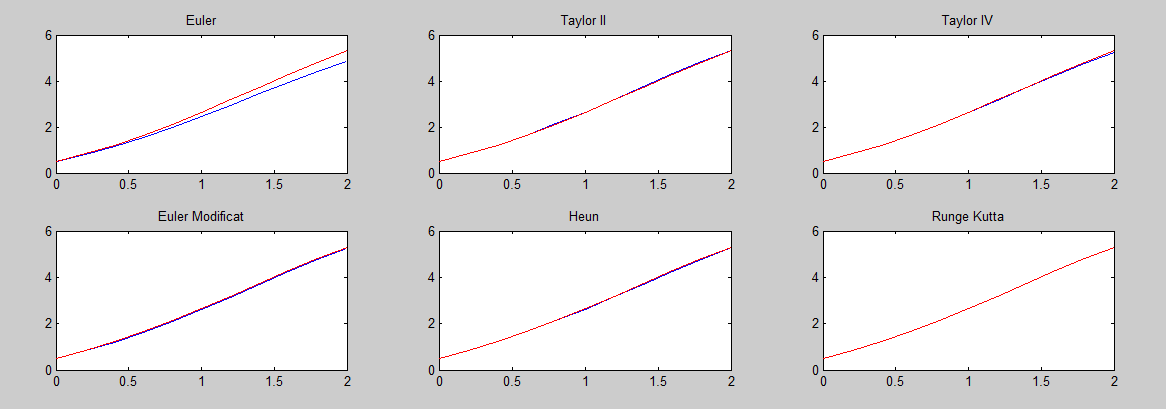
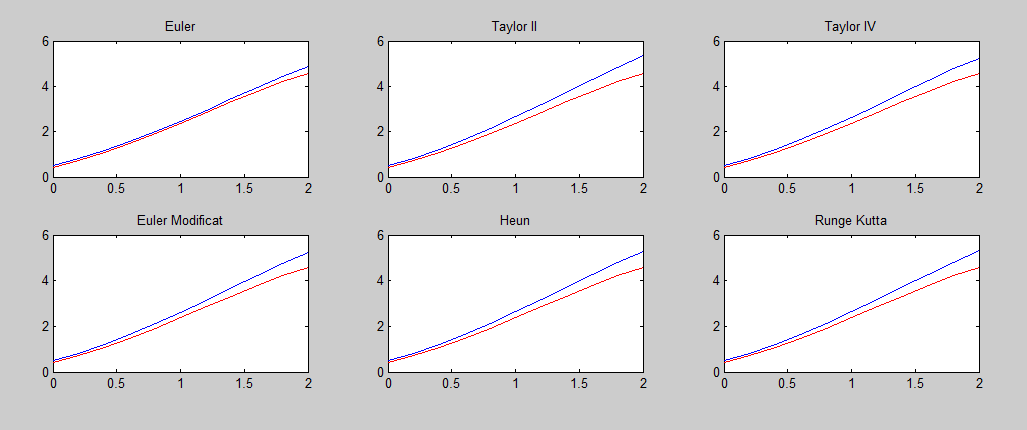
Added ex 3

diff --git a/Tema10/Versiune Gaborica/TaylorIV.m b/Tema10/Versiune Gaborica/TaylorIV.m
@@ -3,21 +3,21 @@ function [ t, x ] = TaylorIV( f, df, d2f, d3f, a, b, alfa, N )
     t = zeros(1,N+1);
     t(1) = a;
     for i = 2:N+1
-        t(i) = t(i-1) + h;
+       t(i) = t(i-1)+h; 
     end
-    x = zeros(1,N);
-    x(1) = alfa;
+    x = zeros(size(alfa,1),N);
+    x(:,1) = alfa;
     for i = 1:N
        sum = 0;
        %k = 1
-       sum = sum + f(t(i),x(i));
+       sum = sum + f(t(i),x(:,i));
        %k = 2
-       sum = sum + ((h/2) * df(t(i),x(i)));
+       sum = sum + ((h/2) * df(t(i),x(:,i)));
        %k = 3
-       sum = sum + ((h^2/6) * d2f(t(i),x(i)));
+       sum = sum + ((h^2/6) * d2f(t(i),x(:,i)));
        %k = 4
-       sum = sum + ((h^3/24) * d3f(t(i),x(i)));
-       x(i+1) = x(i) + h * sum;
+       sum = sum + ((h^3/24) * d3f(t(i),x(:,i)));
+       x(:,i+1) = x(:,i) + h * sum;
     end
 end
 

diff --git a/Tema10/Versiune Gaborica/RungeKutta.m b/Tema10/Versiune Gaborica/RungeKutta.m
@@ -5,14 +5,14 @@ function [ t, x ] = RungeKutta( f,a,b,alfa,N)
     for i = 2:N+1
         t(i) = t(i-1) + h;
     end
-    x = zeros(1,N);
-    x(1) = alfa;
+    x = zeros(size(alfa,1),N);
+    x(:,1) = alfa;
     for i = 1:N
-       K1 = h * f(t(i), x(i));
-       K2 = h * f(t(i)+(h/2), x(i) + (K1/2));
-       K3 = h * f(t(i)+(h/2), x(i) + (K2/2));
-       K4 = h * f(t(i)+h, x(i) + K3);
-       x(i+1) = x(i) + (1/6)*(K1 + 2*K2 + 2*K3 + K4);
+       K1 = h * f(t(i), x(:,i));
+       K2 = h * f(t(i)+(h/2), x(:,i) + (K1/2));
+       K3 = h * f(t(i)+(h/2), x(:,i) + (K2/2));
+       K4 = h * f(t(i)+h, x(:,i) + K3);
+       x(:,i+1) = x(:,i) + (1/6)*(K1 + 2*K2 + 2*K3 + K4);
     end
 end
 

diff --git a/Tema10/Versiune Gaborica/TaylorII.m b/Tema10/Versiune Gaborica/TaylorII.m
@@ -5,15 +5,15 @@ function [ t, x ] = TaylorII( f, df, a, b, alfa, N )
     for i = 2:N+1
         t(i) = t(i-1) + h;
     end
-    x = zeros(1,N);
-    x(1) = alfa;
+    x = zeros(size(alfa,1),N);
+    x(:,1) = alfa;
     for i = 1:N
        sum = 0;
        %k = 1
-       sum = sum + f(t(i),x(i));
+       sum = sum + f(t(i),x(:,i));
        %k = 2
-       sum = sum + ((h/2) * df(t(i),x(i)));
-       x(i+1) = x(i) + h * sum;
+       sum = sum + ((h/2) * df(t(i),x(:,i)));
+       x(:,i+1) = x(:,i) + h * sum;
     end
 end
 

diff --git a/Tema10/Versiune Gaborica/Heun.m b/Tema10/Versiune Gaborica/Heun.m
@@ -5,12 +5,12 @@ function [ t, x ] = Heun( f, a, b, alfa, N )
     for i = 2:N+1
         t(i) = t(i-1) + h;
     end
-    x = zeros(1,N);
-    x(1) = alfa;
+    x = zeros(size(alfa,1),N);
+    x(:,1) = alfa;
     for i = 1:N
-       K1 = h * f(t(i), x(i));
-       K2 = h * f(t(i) + (2/3)*h, x(i)+(2/3)*K1);
-       x(i+1) = x(i) + (1/4)*(K1 + 3*K2);
+       K1 = h * f(t(i), x(:,i));
+       K2 = h * f(t(i) + (2/3)*h, x(:,i)+(2/3)*K1);
+       x(:,i+1) = x(:,i) + (1/4)*(K1 + 3*K2);
     end
 end
 

diff --git a/Tema10/Versiune Gaborica/EulerMod.m b/Tema10/Versiune Gaborica/EulerMod.m
@@ -5,12 +5,12 @@ function [ t, x ] = EulerMod( f, a, b, alfa, N )
     for i = 2:N+1
         t(i) = t(i-1) + h;
     end
-    x = zeros(1,N);
-    x(1) = alfa;
+    x = zeros(size(alfa,1),N);
+    x(:,1) = alfa;
     for i = 1:N
-       K1 = h * f(t(i),x(i));
-       K2 = h * f(t(i)+h, x(i) + K1);
-       x(i+1) = x(i) + (1/2)*(K1 + K2);
+       K1 = h * f(t(i),x(:,i));
+       K2 = h * f(t(i)+h, x(:,i) + K1);
+       x(:,i+1) = x(:,i) + (1/2)*(K1 + K2);
     end
 end
 

diff --git a/Tema10/Versiune Gaborica/Midpoint.m b/Tema10/Versiune Gaborica/Midpoint.m
@@ -1,4 +1,4 @@
-function [ t, x ] = Euler( f, a, b, alfa, N )
+function [ t, x ] = Midpoint( f, a, b, alfa, N )
     h = (b-a)/N;
     t = zeros(1,N+1);
     t(1) = a;
@@ -8,7 +8,9 @@ function [ t, x ] = Euler( f, a, b, alfa, N )
     x = zeros(size(alfa,1),N);
     x(:,1) = alfa;
     for i = 1:N
-       x(:,i+1) = x(:,i) + h*f(t(i),x(:,i));
+       K1 = h*f(t(i), x(:,i));
+       K2 = h*f(t(i)+(h/2), x(:,i) + (K1/2));
+       x(:,i+1) = x(:,i) + K2;
     end
 end
 

diff --git a/Tema10/Versiune Gaborica/Ex3.m b/Tema10/Versiune Gaborica/Ex3.m
@@ -1,0 +1,8 @@
+
+x0 = [3; 2; 3];
+[t, x] = RungeKutta(@f3, 0, 3, x0, 200);
+pc = plot(t,abs(x(1,:)-f31(t)),'b');
+hold on;
+plot(t,abs(x(2,:)-f32(t)),'r');
+plot(t,abs(x(3,:)-f33(t)),'g');
+title('Eroare Runge Kutta - Ex 3');

diff --git a/Tema10/Versiune Gaborica/f2.m b/Tema10/Versiune Gaborica/f2.m
@@ -1,7 +1,6 @@
-function [ y ] = f2( x, t )
-    A = [1, 2; 2, 1];
+function [ Y ] = f2( t, X )
+    A = [1 2; 2 1];
     b = [1; 2];
-    A * x
-    y = A * x + b;
+    Y = A*X + b;
 end
 

diff --git a/Tema10/Versiune Gaborica/RungeKuttaIV.m b/Tema10/Versiune Gaborica/RungeKuttaIV.m
@@ -1,0 +1,7 @@
+function [ output_args ] = RungeKuttaIV( input_args )
+%RUNGEKUTTAIV Summary of this function goes here
+%   Detailed explanation goes here
+
+
+end
+

diff --git a/Tema10/Versiune Gaborica/Ex1b.m b/Tema10/Versiune Gaborica/Ex1b.m
@@ -1,5 +1,5 @@
 t2 = 0:2/10:2;
-x2 = (t2 + 1).^2 - 0.6*exp(1).^t2;
+x2 = (t2 + 1).^2 - 0.5*exp(1).^t2;
 
 [t, x] = Euler(@f, 0, 2, 0.5, 10);
 subplot(3,3,1);

diff --git a/Tema10/Versiune Gaborica/Ex1c.m b/Tema10/Versiune Gaborica/Ex1c.m
@@ -1,5 +1,5 @@
 t2 = 0:2/10:2;
-x2 = (t2 + 1).^2 - 0.6*exp(1).^t2;
+x2 = (t2 + 1).^2 - 0.5*exp(1).^t2;
 
 [t, x] = Euler(@f, 0, 2, 0.5, 10);
 subplot(3,3,1);

diff --git a/Tema10/Versiune Gaborica/f3.m b/Tema10/Versiune Gaborica/f3.m
@@ -1,0 +1,6 @@
+function [ Y ] = f3( t, X )
+    A = [1 1 1; -2 -1 2; 4 1 4];
+    b = [0; 0; 0];
+    Y = A*X + b;
+end
+
